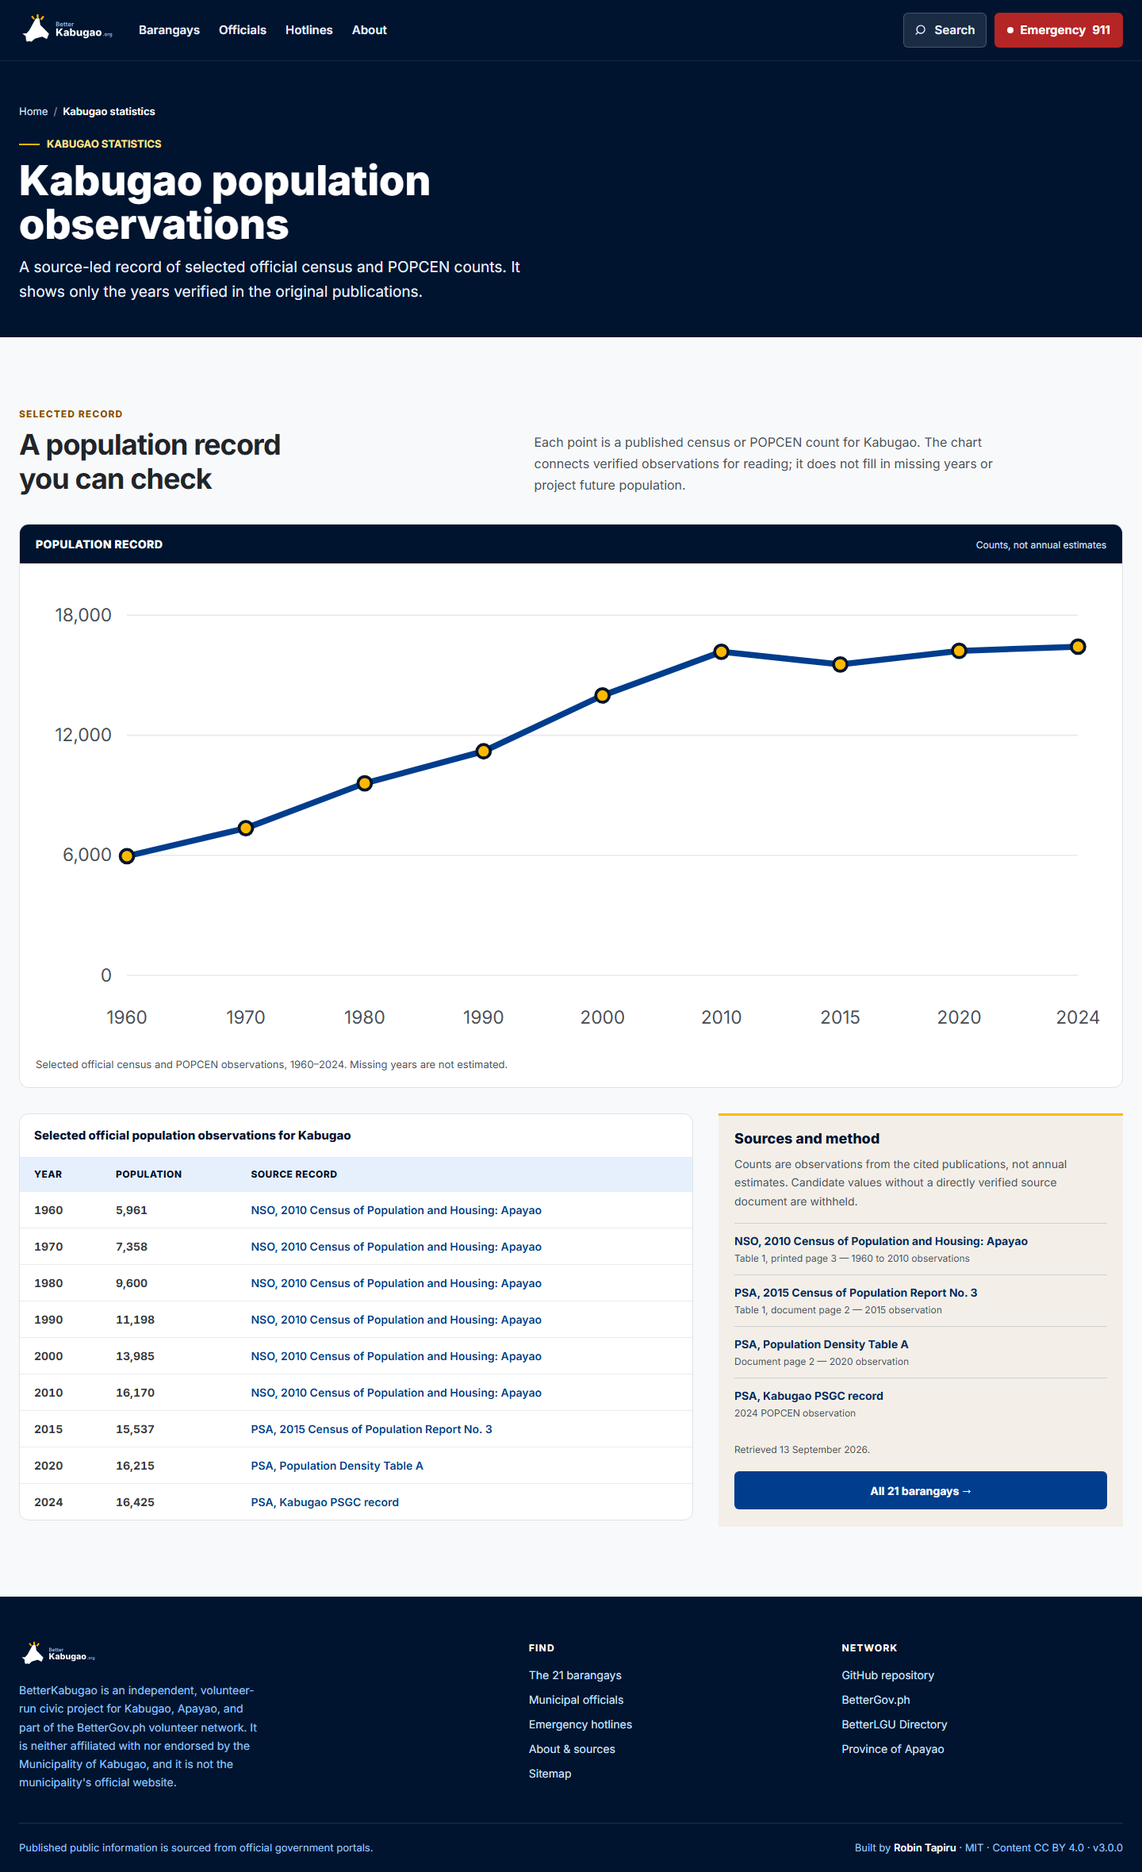
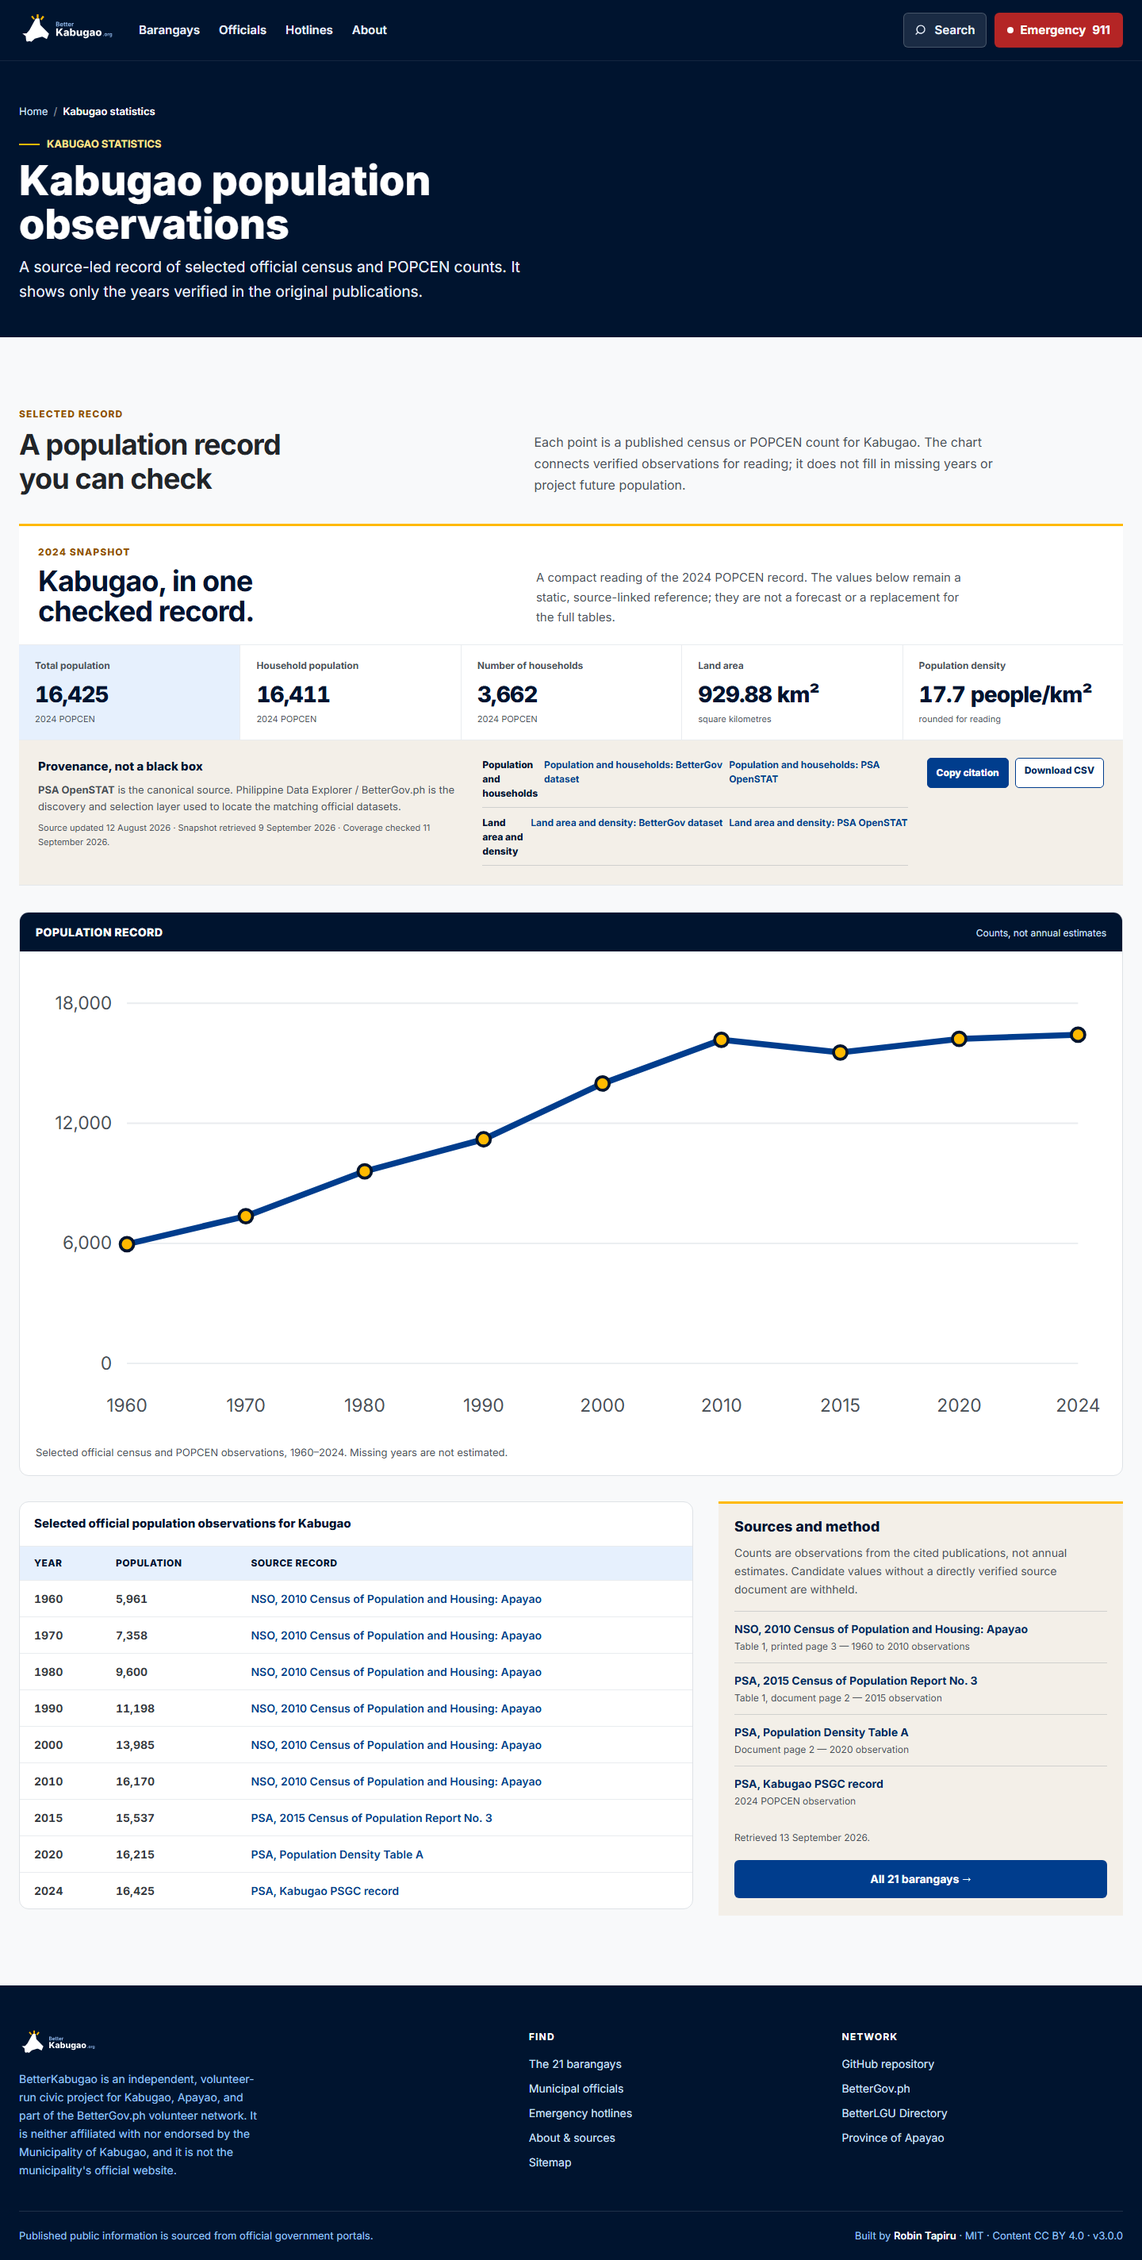
feat: add sourced 2024 statistics snapshot

diff --git a/src/styles.css b/src/styles.css
@@ -1322,6 +1322,32 @@ a:focus-visible, button:focus-visible { outline: 3px solid var(--color-primary-5
 .stats__kicker { color: var(--color-accent-700); font-size: 0.75rem; font-weight: 800; letter-spacing: 0.09em; text-transform: uppercase; }
 .stats__intro h2 { margin-top: 8px; max-width: 16ch; }
 .stats__intro > p { max-width: 58ch; color: var(--color-gray-700); font-size: 1rem; line-height: 1.7; }
+.stats-snapshot { margin-bottom: 34px; border-top: 3px solid var(--color-gold); background: var(--color-white); box-shadow: 0 1px 0 rgba(0, 20, 47, 0.08); }
+.stats-snapshot__head { display: grid; grid-template-columns: minmax(0, 0.9fr) minmax(0, 1.1fr); column-gap: 42px; padding: 24px 24px 22px; }
+.stats-snapshot__head .stats__kicker { grid-column: 1; }
+.stats-snapshot__head h2 { grid-column: 1; margin-top: 8px; max-width: 15ch; color: var(--color-primary-900); font-size: clamp(1.5rem, 3vw, 2.25rem); line-height: 1.08; }
+.stats-snapshot__head > p:last-child { grid-column: 2; grid-row: 1 / span 2; align-self: end; max-width: 58ch; color: var(--color-gray-700); font-size: 0.9375rem; line-height: 1.65; }
+.stats-snapshot__ledger { display: grid; grid-template-columns: repeat(5, minmax(0, 1fr)); margin: 0; border-top: 1px solid var(--color-gray-200); border-bottom: 1px solid var(--color-gray-200); }
+.stats-snapshot__metric { min-width: 0; padding: 18px 20px; border-left: 1px solid var(--color-gray-200); }
+.stats-snapshot__metric:first-child { border-left: 0; background: var(--color-primary-50); }
+.stats-snapshot__metric dt { color: var(--color-gray-700); font-size: 0.75rem; font-weight: 700; line-height: 1.35; }
+.stats-snapshot__metric dd { margin: 6px 0 0; color: var(--color-primary-900); font-size: clamp(1.18rem, 2vw, 1.75rem); font-weight: 800; letter-spacing: -0.03em; font-variant-numeric: tabular-nums; white-space: nowrap; }
+.stats-snapshot__metric span { display: block; margin-top: 3px; color: var(--color-gray-700); font-size: 0.6875rem; line-height: 1.4; }
+.stats-snapshot__provenance { display: grid; grid-template-columns: minmax(0, 1fr) minmax(280px, 1fr) auto; gap: 24px; padding: 22px 24px 24px; background: var(--kv-sand); }
+.stats-snapshot__provenance h3 { color: var(--color-primary-900); font-size: 0.9375rem; font-weight: 800; letter-spacing: 0; }
+.stats-snapshot__provenance p { margin-top: 8px; color: var(--color-gray-700); font-size: 0.8125rem; line-height: 1.6; }
+.stats-snapshot__provenance .stats-snapshot__dates { font-size: 0.6875rem; }
+.stats-snapshot__source-list { display: grid; gap: 10px; margin: 0; padding: 0; list-style: none; }
+.stats-snapshot__source-list li { display: grid; grid-template-columns: 1fr auto auto; gap: 8px; align-items: baseline; border-bottom: 1px solid rgba(0, 20, 47, 0.14); padding-bottom: 8px; }
+.stats-snapshot__source-list span { color: var(--color-primary-900); font-size: 0.75rem; font-weight: 800; }
+.stats-snapshot__source-list a { color: var(--color-primary-700); font-size: 0.75rem; font-weight: 700; }
+.stats-snapshot__actions { display: grid; grid-template-columns: auto auto; align-content: start; gap: 8px; }
+.stats-snapshot__copy, .stats-snapshot__csv { min-height: 38px; border: 1px solid var(--color-primary-700); border-radius: 5px; padding: 8px 11px; font: inherit; font-size: 0.75rem; font-weight: 800; line-height: 1.2; text-align: center; cursor: pointer; }
+.stats-snapshot__copy { background: var(--color-primary-700); color: var(--color-white); }
+.stats-snapshot__csv { background: var(--color-white); color: var(--color-primary-800); text-decoration: none; }
+.stats-snapshot__copy:hover { background: var(--color-primary-800); }
+.stats-snapshot__csv:hover { background: var(--color-primary-50); }
+.stats-snapshot__status { grid-column: 1 / -1; min-height: 1.2em; margin: 0; color: var(--color-gray-700); font-size: 0.6875rem; line-height: 1.4; }
 .stats-chart { border: 1px solid var(--color-gray-300); border-radius: 12px; overflow: hidden; background: var(--color-white); }
 .stats-chart__bar { display: flex; align-items: baseline; justify-content: space-between; gap: 16px; padding: 14px 20px; background: var(--color-primary-900); color: var(--color-white); }
 .stats-chart__bar p { font-size: 0.875rem; font-weight: 800; letter-spacing: 0.03em; text-transform: uppercase; }
@@ -1478,6 +1504,17 @@ a:focus-visible, button:focus-visible { outline: 3px solid var(--color-primary-5
   .kv-place__figs { gap: 14px 24px; }
   .kv-index__head, .stats__intro { grid-template-columns: 1fr; display: grid; gap: 8px; }
   .kv-index__head { padding-bottom: 14px; }
+  .stats-snapshot__head { grid-template-columns: 1fr; gap: 8px; }
+  .stats-snapshot__head > p:last-child { grid-column: 1; grid-row: auto; }
+  .stats-snapshot__ledger { grid-template-columns: repeat(2, minmax(0, 1fr)); }
+  .stats-snapshot__metric { border-top: 1px solid var(--color-gray-200); }
+  .stats-snapshot__metric:nth-child(odd) { border-left: 0; }
+  .stats-snapshot__metric:nth-child(-n + 2) { border-top: 0; }
+  .stats-snapshot__metric:last-child { grid-column: 1 / -1; }
+  .stats-snapshot__provenance { grid-template-columns: 1fr; gap: 18px; }
+  .stats-snapshot__source-list li { grid-template-columns: 1fr auto; }
+  .stats-snapshot__source-list span { grid-column: 1 / -1; }
+  .stats-snapshot__actions { grid-template-columns: 1fr 1fr; }
   .stats-chart__bar { align-items: flex-start; flex-direction: column; gap: 4px; }
   .stats-chart__svg { padding-inline: 2px; }
   .stats-table th, .stats-table td { padding: 11px 12px; }

diff --git a/src/pages/StatisticsPage.tsx b/src/pages/StatisticsPage.tsx
@@ -1,10 +1,13 @@
-import { useEffect, useRef } from "react";
+import { useEffect, useRef, useState } from "react";
 import { Link } from "react-router-dom";
 import { PageHeader } from "../components/PageHeader";
 import {
   POPULATION_OBSERVATIONS,
   POPULATION_RETRIEVED,
   POPULATION_SOURCES,
+  KABUGAO_2024_CITATION,
+  KABUGAO_2024_SNAPSHOT,
+  KABUGAO_2024_SNAPSHOT_SOURCES,
 } from "../data/population";
 import { metaFor } from "../lib/seo";
 
@@ -104,6 +107,85 @@ function PopulationChart() {
   );
 }
 
+function SnapshotActions() {
+  const [copyStatus, setCopyStatus] = useState("");
+
+  async function copyCitation() {
+    try {
+      await navigator.clipboard.writeText(KABUGAO_2024_CITATION);
+      setCopyStatus("Citation copied.");
+    } catch {
+      setCopyStatus("Copy is unavailable. Use the source links below.");
+    }
+  }
+
+  return (
+    <div className="stats-snapshot__actions">
+      <button className="stats-snapshot__copy" type="button" onClick={() => void copyCitation()}>
+        Copy citation
+      </button>
+      <a className="stats-snapshot__csv" href="/data/kabugao-2024-snapshot.csv" download>
+        Download CSV
+      </a>
+      <p className="stats-snapshot__status" role="status">{copyStatus}</p>
+    </div>
+  );
+}
+
+function Snapshot() {
+  return (
+    <section className="stats-snapshot" aria-label="Kabugao 2024 snapshot">
+      <div className="stats-snapshot__head">
+        <p className="stats__kicker">2024 snapshot</p>
+        <h2 id="snapshot-title">Kabugao, in one checked record.</h2>
+        <p>
+          A compact reading of the 2024 POPCEN record. The values below remain a static, source-linked reference;
+          they are not a forecast or a replacement for the full tables.
+        </p>
+      </div>
+
+      <dl className="stats-snapshot__ledger">
+        {KABUGAO_2024_SNAPSHOT.map((metric) => (
+          <div className="stats-snapshot__metric" key={metric.label}>
+            <dt>{metric.label}</dt>
+            <dd>
+              {metric.exactValue ? <data value="17.6636" aria-label={metric.exactValue}>{metric.value}</data> : metric.value}
+            </dd>
+            <span>{metric.detail}</span>
+          </div>
+        ))}
+      </dl>
+
+      <div className="stats-snapshot__provenance">
+        <div>
+          <h3>Provenance, not a black box</h3>
+          <p>
+            <strong>PSA OpenSTAT</strong> is the canonical source. Philippine Data Explorer / BetterGov.ph is the
+            discovery and selection layer used to locate the matching official datasets.
+          </p>
+          <p className="stats-snapshot__dates">
+            Source updated 12 August 2026 · Snapshot retrieved 9 September 2026 · Coverage checked 11 September 2026.
+          </p>
+        </div>
+        <ul className="stats-snapshot__source-list">
+          {KABUGAO_2024_SNAPSHOT_SOURCES.map((source) => (
+            <li key={source.label}>
+              <span>{source.label}</span>
+              <a href={source.betterGov} target="_blank" rel="noreferrer">
+                {source.label}: BetterGov dataset
+              </a>
+              <a href={source.openStat} target="_blank" rel="noreferrer">
+                {source.label}: PSA OpenSTAT
+              </a>
+            </li>
+          ))}
+        </ul>
+        <SnapshotActions />
+      </div>
+    </section>
+  );
+}
+
 export function StatisticsPage() {
   const meta = metaFor("/statistics");
 
@@ -128,6 +210,8 @@ export function StatisticsPage() {
               Each point is a published census or POPCEN count for Kabugao. The chart connects verified observations for reading; it does not fill in missing years or project future population.
             </p>
           </div>
+
+          <Snapshot />
 
           <PopulationChart />
 

diff --git a/src/data/population.ts b/src/data/population.ts
@@ -50,3 +50,40 @@ export const POPULATION_OBSERVATIONS: readonly PopulationObservation[] = [
   { year: 2020, population: 16215, source: "density2020" },
   { year: 2024, population: 16425, source: "psgc2024" },
 ] as const;
+
+export const KABUGAO_2024_SNAPSHOT = [
+  { label: "Total population", value: "16,425", exactValue: undefined, detail: "2024 POPCEN" },
+  { label: "Household population", value: "16,411", exactValue: undefined, detail: "2024 POPCEN" },
+  { label: "Number of households", value: "3,662", exactValue: undefined, detail: "2024 POPCEN" },
+  { label: "Land area", value: "929.88 km²", exactValue: undefined, detail: "square kilometres" },
+  {
+    label: "Population density",
+    value: "17.7 people/km²",
+    exactValue: "17.6636 persons per square kilometre",
+    detail: "rounded for reading",
+  },
+] as const;
+
+export const KABUGAO_2024_SNAPSHOT_SOURCES = [
+  {
+    label: "Population and households",
+    betterGov: "https://statistics.bettergov.ph/datasets/b1b47f8cb7ceb5c50a97",
+    openStat: "https://openstat.psa.gov.ph/PXWeb/pxweb/en/DB/DB__1A__PO_2024/0151A6DTHP4.px",
+  },
+  {
+    label: "Land area and density",
+    betterGov: "https://statistics.bettergov.ph/datasets/05c931eaecec498f9756",
+    openStat: "https://openstat.psa.gov.ph/PXWeb/pxweb/en/DB/DB__1A__PO_2024/0221A6DLPD0.px",
+  },
+] as const;
+
+export const KABUGAO_2024_CITATION = [
+  "Philippine Statistics Authority (PSA) OpenSTAT, 2024 POPCEN datasets for Kabugao, Apayao:",
+  "total population 16,425; household population 16,411; households 3,662; land area 929.88 km²;",
+  "population density 17.6636 persons/km².",
+  "Canonical PSA OpenSTAT sources:",
+  ...KABUGAO_2024_SNAPSHOT_SOURCES.map((source) => source.openStat),
+  "Discovery and selection layer: Philippine Data Explorer / BetterGov.ph:",
+  ...KABUGAO_2024_SNAPSHOT_SOURCES.map((source) => source.betterGov),
+  "Source updated 12 August 2026; snapshot retrieved 9 September 2026; coverage checked 11 September 2026.",
+].join(" ");

diff --git a/src/App.test.tsx b/src/App.test.tsx
@@ -79,6 +79,13 @@ describe("home page", () => {
       expect(within(main).getAllByRole("link").some((l) => l.getAttribute("href") === href)).toBe(true);
     }
   });
+
+  it("previews the verified 2024 statistics snapshot", () => {
+    renderAt("/");
+    const statistics = screen.getByRole("link", { name: /Statistics/i });
+    expect(statistics).toHaveAttribute("href", "/statistics");
+    expect(within(statistics).getByText("2024 snapshot: 16,425 residents")).toBeInTheDocument();
+  });
 });
 
 describe("Kabugao statistics", () => {
@@ -111,6 +118,30 @@ describe("Kabugao statistics", () => {
     expect(screen.getByRole("link", { name: /^All 21 barangays/ })).toHaveAttribute(
       "href",
       "/government/barangays",
+    );
+  });
+
+  it("publishes a source-led 2024 snapshot with citation and CSV actions", () => {
+    renderAt("/statistics");
+
+    const snapshot = screen.getByRole("region", { name: "Kabugao 2024 snapshot" });
+    for (const value of ["16,425", "16,411", "3,662", "929.88 km²", "17.7 people/km²"]) {
+      expect(within(snapshot).getByText(value)).toBeInTheDocument();
+    }
+    expect(within(snapshot).getByText("PSA OpenSTAT")).toBeInTheDocument();
+    expect(within(snapshot).getByText(/Source updated 12 August 2026/i)).toBeInTheDocument();
+    expect(within(snapshot).getByRole("link", { name: /Population and households: BetterGov dataset/i })).toHaveAttribute(
+      "href",
+      "https://statistics.bettergov.ph/datasets/b1b47f8cb7ceb5c50a97",
+    );
+    expect(within(snapshot).getByRole("link", { name: /Land area and density: PSA OpenSTAT/i })).toHaveAttribute(
+      "href",
+      "https://openstat.psa.gov.ph/PXWeb/pxweb/en/DB/DB__1A__PO_2024/0221A6DLPD0.px",
+    );
+    expect(within(snapshot).getByRole("button", { name: "Copy citation" })).toBeInTheDocument();
+    expect(within(snapshot).getByRole("link", { name: "Download CSV" })).toHaveAttribute(
+      "href",
+      "/data/kabugao-2024-snapshot.csv",
     );
   });
 

diff --git a/src/pages/HomePage.tsx b/src/pages/HomePage.tsx
@@ -25,7 +25,7 @@ const TASKS = [
   { to: "/government/barangays", label: "Barangays", sub: `All ${BARANGAYS.length}, on the map`, icon: "pin" },
   { to: "/government/officials", label: "Officials", sub: `Your ${OFFICIALS_TERM} leaders`, icon: "people" },
   { to: "/emergency", label: "Hotlines", sub: `911 and ${HOTLINES.length} local offices`, icon: "phone" },
-  { to: "/statistics", label: "Statistics", sub: "Population observations, 1960–2024", icon: "chart" },
+  { to: "/statistics", label: "Statistics", sub: "2024 snapshot: 16,425 residents", icon: "chart" },
 ] as const;
 
 function TaskIcon({ name }: { name: string }) {

diff --git a/docs/sessions/2026-09-16-statistics-snapshot-and-provenance.md b/docs/sessions/2026-09-16-statistics-snapshot-and-provenance.md
@@ -1,0 +1,56 @@
+# Statistics snapshot and provenance — 16 September 2026
+
+## Release intent
+
+Publish a small, checked 2024 Kabugao statistics record without turning the page into a dashboard or implying a complete annual time series. The existing population chart and its one-time motion remain intact.
+
+## Published record
+
+| Measure | Display value | Exact/source value |
+| --- | --- | --- |
+| Total population | 16,425 | 16,425 persons |
+| Household population | 16,411 | 16,411 persons |
+| Number of households | 3,662 | 3,662 households |
+| Land area | 929.88 km² | 929.88 square kilometres |
+| Population density | 17.7 people/km² | 17.6636 persons per square kilometre |
+
+The density is rounded only for visual reading. The exact value is carried in the accessible page markup, the downloadable CSV, and the copyable citation.
+
+## Provenance model
+
+- **Canonical source:** Philippine Statistics Authority (PSA) OpenSTAT.
+  - Population and households: <https://openstat.psa.gov.ph/PXWeb/pxweb/en/DB/DB__1A__PO_2024/0151A6DTHP4.px>
+  - Land area and density: <https://openstat.psa.gov.ph/PXWeb/pxweb/en/DB/DB__1A__PO_2024/0221A6DLPD0.px>
+- **Discovery and selection layer:** Philippine Data Explorer / BetterGov.ph.
+  - Population and households: <https://statistics.bettergov.ph/datasets/b1b47f8cb7ceb5c50a97>
+  - Land area and density: <https://statistics.bettergov.ph/datasets/05c931eaecec498f9756>
+- Source updated: **12 August 2026**. Snapshot retrieved: **9 September 2026**. Coverage checked: **11 September 2026**.
+
+No BetterGov runtime API is used. The page ships a local, static CSV at `/data/kabugao-2024-snapshot.csv`; it is both dependable for visitors and clear about the values being published.
+
+## Design decision
+
+The new block is an **evidence ledger**, not a generic metric-card dashboard: one pale panel, a gold source rule, compact record cells, and a visible provenance strip. It follows BetterGov’s civic clarity while retaining BetterKabugao typography, colors, and responsive layout. The chart remains the page’s only purposeful motion.
+
+## Changed files
+
+- `src/data/population.ts` — snapshot values, source pairs, and copyable citation.
+- `src/pages/StatisticsPage.tsx` — accessible snapshot, source links, copy-citation control, and local CSV link.
+- `public/data/kabugao-2024-snapshot.csv` — static downloadable extract.
+- `src/pages/HomePage.tsx` — concise 2024 snapshot entry.
+- `src/styles.css` — responsive evidence-ledger presentation.
+- `src/App.test.tsx` and `scripts/qa/statistics-animation.mjs` — automated coverage.
+
+## Verification evidence
+
+- TDD: the new snapshot test first failed because the labelled snapshot region did not exist, then passed after implementation.
+- Type check: passed.
+- Lint: passed.
+- Contracts: **40/40** passed.
+- Unit tests: **55/55** passed.
+- Production build/prerender: passed; **34** pages prerendered.
+- Focused browser QA: **15/15** passed at 390px and 1440px, including source links, local CSV content, copy citation, homepage entry, reduced motion, print, JavaScript-off output, and no chart replay.
+
+## Known platform note
+
+Keep Cloudflare DDoS protection and the strict CSP unchanged. A CSP-blocked inline Cloudflare challenge console warning may appear in production; it is a known platform-side exception, not an application error and not a reason to weaken either protection.

diff --git a/docs/command-center/COMMAND-CENTER-RULES.md b/docs/command-center/COMMAND-CENTER-RULES.md
@@ -17,10 +17,14 @@ The Command Center is BetterKabugao's single coordination point for Robin. It:
 - reports one consolidated status with evidence, decisions, blockers and next
   actions.
 
-The Command Center performs no department execution. Every actual task,
-including a small task, is assigned to the appropriate department. The
-Command Center may perform only minimal, read-only coordination checks needed
-to classify, route or report status; it must not perform substantive
+Command Center analysis is coordination-only: it may understand and triage a
+request; choose the appropriate department and model; compare and reconcile
+department outputs; assess priority, risk and completeness; request approvals;
+and report. It never performs the underlying department deliverable. Every
+actual task, including a small task, is assigned to the appropriate department.
+
+The Command Center may perform only minimal, read-only coordination checks
+needed to classify, route or report status; it must not perform substantive
 department analysis.
 
 The prohibited execution areas are explicit: no coding, QA or accessibility
@@ -55,9 +59,20 @@ community work, or any other substantive work owned by a department. Each
 department remains within its own mandate; cross-department work is split and
 routed rather than absorbed by one task.
 
-Only Robin may explicitly authorize an exception. An exception is limited to
-the exact action Robin approved; it does not permanently expand the Command
-Center's authority.
+These boundaries are mandatory and cannot be relaxed for urgency, low credits,
+small scope or convenience. They change only if Robin explicitly changes the
+governance model.
+
+## Permanent-department-only delegation
+
+The Command Center routes department execution only to the established,
+permanent department tasks. It must not create temporary, private, child,
+subagent or substitute workers to perform department work.
+
+If the correct permanent department is unavailable, misconfigured, blocked or
+in the wrong workspace, the Command Center pauses the work, reports the
+blockage, and coordinates a correction or requests Robin's direction. It never
+replaces that department with its own worker.
 
 ## Department routing
 
